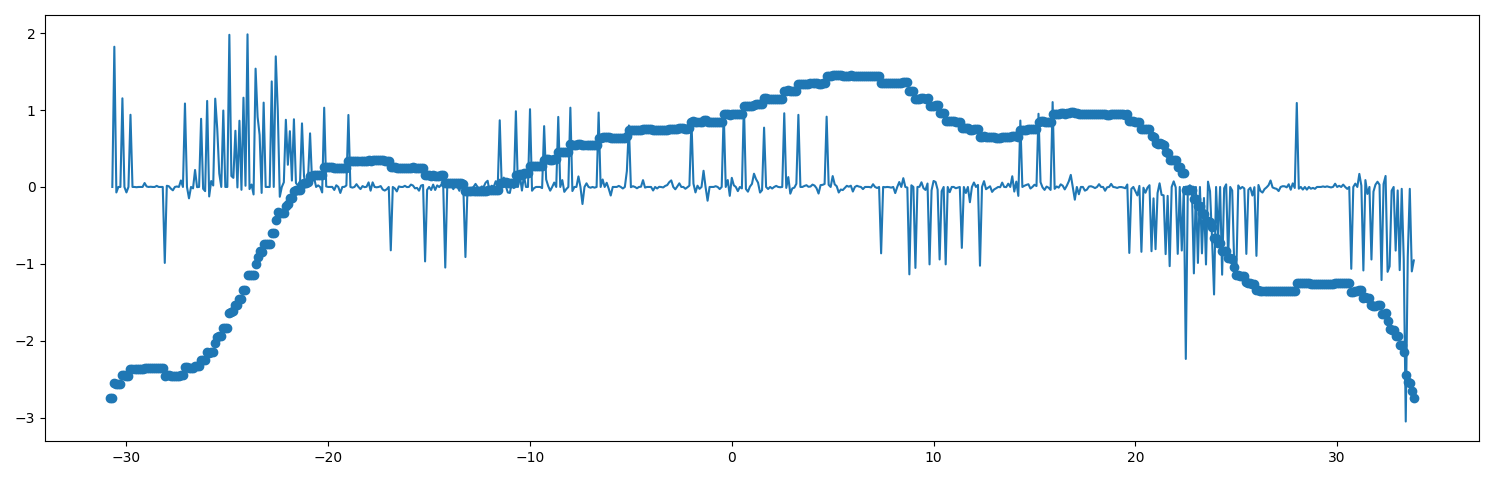
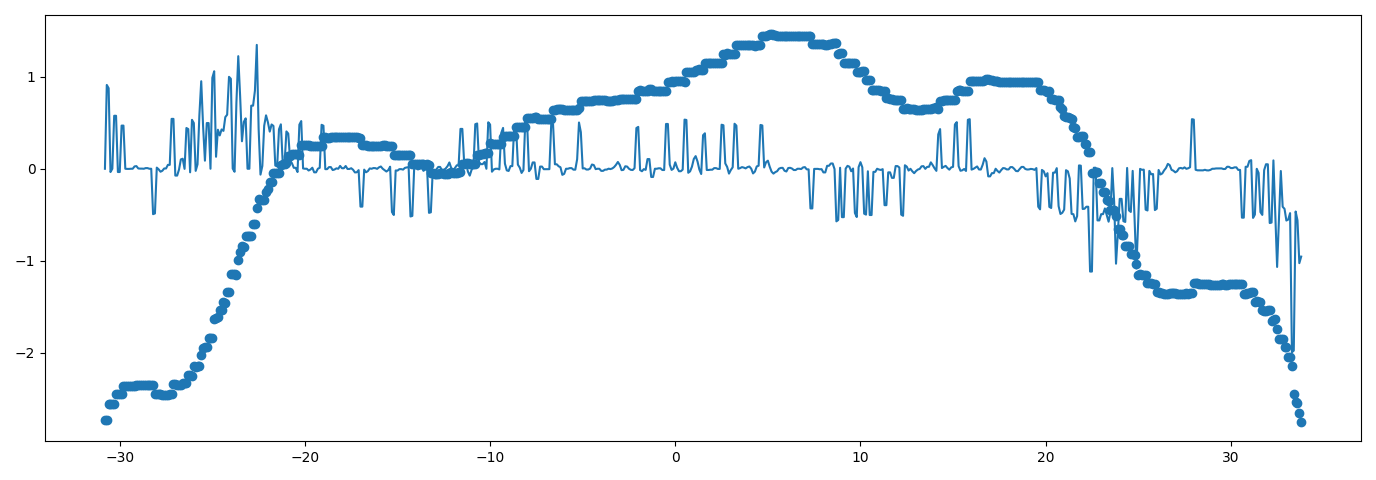
weld scan merge. Need to tune q sol for scanner

diff --git a/weld/weld_wall_scan.py b/weld/weld_wall_scan.py
@@ -3,9 +3,9 @@ from pathlib import Path
 import pickle
 import sys
 sys.path.append('../toolbox/')
-sys.path.append('scan_tools/')
-sys.path.append('scan_plan/')
-sys.path.append('scan_process/')
+sys.path.append('../scan/scan_tools/')
+sys.path.append('../scan/scan_plan/')
+sys.path.append('../scan/scan_process/')
 from robot_def import *
 from scan_utils import *
 from scan_continuous import *
@@ -49,7 +49,7 @@ def robot_weld_path_gen(all_layer_z,forward_flag,base_layer):
 			[-0.,      0.,     -1.    ]])
     x0 =  1684	# Origin x coordinate
     y0 = -1179 + 428	# Origin y coordinate
-    z0 = -245   # 10 mm distance to base
+    z0 = -260   # 10 mm distance to base
 
     weld_p=[]
     if base_layer: # base layer
@@ -70,7 +70,7 @@ def robot_weld_path_gen(all_layer_z,forward_flag,base_layer):
     for layer_z in all_layer_z:
         path_T=[]
         for p in weld_p:
-            path_T.append(Transform(R,p))
+            path_T.append(Transform(R,p+np.array([0,0,layer_z])))
 
         all_path_T.append(path_T)
     
@@ -83,14 +83,21 @@ robot_weld=robot_obj('MA2010_A0',def_path=config_dir+'MA2010_A0_robot_default_co
 	pulse2deg_file_path=config_dir+'MA2010_A0_pulse2deg_real.csv',\
     base_marker_config_file=config_dir+'MA2010_marker_config.yaml',tool_marker_config_file=config_dir+'weldgun_marker_config.yaml')
 robot_scan=robot_obj('MA1440_A0',def_path=config_dir+'MA1440_A0_robot_default_config.yml',tool_file_path=config_dir+'scanner_tcp2.csv',\
-	base_transformation_file=config_dir+'MA1440_pose_mocapcalib.csv',pulse2deg_file_path=config_dir+'MA1440_A0_pulse2deg_real.csv',\
+	base_transformation_file=config_dir+'MA1440_pose.csv',pulse2deg_file_path=config_dir+'MA1440_A0_pulse2deg_real.csv',\
     base_marker_config_file=config_dir+'MA1440_marker_config.yaml',tool_marker_config_file=config_dir+'scanner_marker_config.yaml')
 positioner=positioner_obj('D500B',def_path=config_dir+'D500B_robot_default_config.yml',tool_file_path=config_dir+'positioner_tcp.csv',\
-    base_transformation_file=config_dir+'D500B_pose_mocapcalib.csv',pulse2deg_file_path=config_dir+'D500B_pulse2deg_real.csv',\
+    base_transformation_file=config_dir+'D500B_pose.csv',pulse2deg_file_path=config_dir+'D500B_pulse2deg_real.csv',\
     base_marker_config_file=config_dir+'D500B_marker_config.yaml',tool_marker_config_file=config_dir+'positioner_tcp_marker_config.yaml')
 
 Table_home_T = positioner.fwd(np.radians([-15,180]))
 T_S1TCP_R1Base = np.linalg.inv(np.matmul(positioner.base_H,H_from_RT(Table_home_T.R,Table_home_T.p)))
+T_R1Base_S1TCP = np.linalg.inv(T_S1TCP_R1Base)
+
+#### change base H to calibrated ones ####
+robot_scan.base_H = H_from_RT(robot_scan.T_base_basemarker.R,robot_scan.T_base_basemarker.p)
+positioner.base_H = H_from_RT(positioner.T_base_basemarker.R,positioner.T_base_basemarker.p)
+T_to_base = Transform(np.eye(3),[0,0,-380])
+positioner.base_H = np.matmul(positioner.base_H,H_from_RT(T_to_base.R,T_to_base.p))
 
 forward_flag = True
 base_layer = True
@@ -114,12 +121,11 @@ formatted_time = current_time.strftime('%Y_%m_%d_%H_%M_%S.%f')[:-7]
 data_dir='../data/wall_weld_test/weld_scan_'+formatted_time+'/'
 
 for i in range(len(weld_z_height)):
-
     if i>=2:
         base_layer=False
     this_z_height=weld_z_height[i]
     this_job_number=job_number[i]
-    this_weld_v=weld_velocity[i]
+    this_weld_v=[weld_velocity[i]]
 
     # 1. The curve path in "positioner tcp frame"
     ######### enter your wanted z height #######
@@ -133,6 +139,107 @@ for i in range(len(weld_z_height)):
         this_n = np.matmul(T_S1TCP_R1Base[:3,:3],path_p.R[:,-1])
         curve_sliced_relative.append(np.append(this_p,this_n))
     curve_sliced_relative=curve_sliced_relative[1:-1] # the start and end is for collision prevention
+    R_S1TCP = np.matmul(T_S1TCP_R1Base[:3,:3],path_p.R)
+
+    #### Correction ####
+    # TODO: Add fitering if near threshold
+    h_largest=this_z_height
+    if i>1:
+        h_largest = np.max(profile_height[:,1])
+        h_target = h_largest+1.2
+
+        profile_slope = np.diff(profile_height[:,1])/np.diff(profile_height[:,0])
+        profile_slope = np.append(profile_slope[0],profile_slope)
+        # find slope peak
+        peak_threshold=0.6
+        weld_terrain=[]
+        last_peak_i=None
+        lastlast_peak_i=None
+        for sample_i in range(len(profile_slope)):
+            if np.fabs(profile_slope[sample_i])<peak_threshold:
+                weld_terrain.append(0)
+            else:
+                if profile_slope[sample_i]>=peak_threshold:
+                    weld_terrain.append(1)
+                elif profile_slope[sample_i]<=peak_threshold:
+                    weld_terrain.append(-1)
+                if lastlast_peak_i:
+                    if (weld_terrain[-1]==weld_terrain[lastlast_peak_i]) and (weld_terrain[-1]!=weld_terrain[last_peak_i]):
+                        weld_terrain[last_peak_i]=0
+                lastlast_peak_i=last_peak_i
+                last_peak_i=sample_i
+
+        weld_terrain=np.array(weld_terrain)
+        weld_peak=[]
+        last_peak=None
+        last_peak_i=None
+        flat_threshold=2.5
+        for sample_i in range(len(profile_slope)):
+            if weld_terrain[sample_i]!=0:
+                if last_peak is None:
+                    weld_peak.append(profile_height[sample_i])
+                else:
+                    # if the terrain change
+                    if (last_peak>0 and weld_terrain[sample_i]<0) or (last_peak<0 and weld_terrain[sample_i]>0):
+                        weld_peak.append(profile_height[last_peak_i])
+                        weld_peak.append(profile_height[sample_i])
+                    else:
+                        # the terrain not change but flat too long
+                        if profile_height[sample_i,0]-profile_height[last_peak_i,0]>flat_threshold:
+                            weld_peak.append(profile_height[last_peak_i])
+                            weld_peak.append(profile_height[sample_i])
+                last_peak=deepcopy(weld_terrain[sample_i])
+                last_peak_i=sample_i
+        weld_peak=np.array(weld_peak)
+
+        if forward_flag:
+            weld_bp = weld_peak[np.arange(0,len(weld_peak)-1,2)+1]
+        else:
+            weld_bp = weld_peak[np.arange(0,len(weld_peak),2)][::-1]
+
+        plt.scatter(profile_height[:,0],profile_height[:,1]-np.mean(profile_height[:,1]))
+        plt.plot(profile_height[:,0],profile_slope)
+        plt.scatter(weld_peak[:,0],weld_peak[:,1]-np.mean(profile_height[:,1]))
+        plt.scatter(weld_bp[:,0],weld_bp[:,1]-np.mean(profile_height[:,1]))
+        plt.show()
+
+        # find v
+        # 140 ipm: dh=0.006477*v^2-0.2362v+3.339
+        # 160 ipm: dh=0.006043*v^2-0.2234v+3.335
+        this_weld_v = []
+        dh = min(h_target-weld_bp[0][1],2.5) # find first v
+        a=0.006477
+        b=-0.2362
+        c=3.339-dh
+        v=-b+np.sqrt(b**2-4*a*c)/(2*a)
+        this_weld_v.append(v)
+        for bpi in range(len(weld_bp)):
+            dh = h_target-weld_bp[bpi][1]
+            a=0.006477
+            b=-0.2362
+            c=3.339-dh
+            v=-b+np.sqrt(b**2-4*a*c)/(2*a)
+            this_weld_v.append(v)
+        # new curve in positioner frame
+        curve_sliced_relative_correct = [curve_sliced_relative[0]]
+        path_T_S1 = [Transform(R_S1TCP,curve_sliced_relative_correct[-1][:3])]
+        for bpi in range(1,len(weld_bp)):
+            this_p = np.array([weld_bp[bpi][0],curve_sliced_relative[0][1],h_largest])
+            curve_sliced_relative_correct.append(np.append(this_p,curve_sliced_relative_correct[0][3:]))
+            path_T_S1.append(Transform(R_S1TCP,curve_sliced_relative_correct[-1][:3]))
+        curve_sliced_relative_correct = [curve_sliced_relative[-1]]
+        path_T_S1 = [Transform(R_S1TCP,curve_sliced_relative_correct[-1][:3])]
+        curve_sliced_relative=curve_sliced_relative_correct
+        # find curve in R1 frame
+        path_T=[]
+        for tcp_T in path_T_S1:
+            this_p = T_R1Base_S1TCP[:3,:3]@tcp_T.p+T_R1Base_S1TCP[:3,-1]
+            this_R = T_R1Base_S1TCP[:3,:3]@tcp_T.R
+            path_T.append(Transform(this_R,this_p))
+        # add path collision avoidance
+        path_T.insert(0,Transform(path_T[0].R,path_T[0].p+np.array([0,0,10])))
+        path_T.append(Transform(path_T[-1].R,path_T[-1].p+np.array([0,0,10])))
+    ####################
 
     # 2. Scanning parameters
     ### scan parameters
@@ -142,36 +249,29 @@ for i in range(len(weld_z_height)):
     Ry_angle = np.radians(0) # rotate in y a bit
     bounds_theta = np.radians(10) ## circular motion at start and end
     all_scan_angle = np.radians([0]) ## scan angle
-    q_init_table=np.radians([-30,0]) ## init table
+    q_init_table=np.radians([-15,90]) ## init table
     save_output_points = True
-
     ### scanning path module
     spg = ScanPathGen(robot_scan,positioner,scan_stand_off_d,Rz_angle,Ry_angle,bounds_theta)
+    mti_Rpath = np.array([[ 1.,0.,0.],   
+                    [ 0.,-1.,0.],
+                    [0.,0.,-1.]])
     # generate scan path
-    scan_p,scan_R,q_out1,q_out2=spg.gen_scan_path([curve_sliced_relative],[0],all_scan_angle,\
-                    solve_js_method=0,q_init_table=q_init_table,scan_path_dir=None)
+    if forward_flag:
+        scan_p,scan_R,q_out1,q_out2=spg.gen_scan_path([curve_sliced_relative],[0],all_scan_angle,\
+                        solve_js_method=0,q_init_table=q_init_table,R_path=mti_Rpath,scan_path_dir=None)
+    else:
+        scan_p,scan_R,q_out1,q_out2=spg.gen_scan_path([curve_sliced_relative[::-1]],[0],all_scan_angle,\
+                        solve_js_method=0,q_init_table=q_init_table,R_path=mti_Rpath,scan_path_dir=None)
     # generate motion program
     q_bp1,q_bp2,s1_all,s2_all=spg.gen_motion_program(q_out1,q_out2,scan_p,scan_speed,init_sync_move=0)
+    # print(np.degrees(q_out1[:10]))
+    # print(np.degrees(q_out1[-10:]))
+    # exit()
+    #######################################
 
     ######################################################
     ########### Do welding #############
-    #### Correction ####
-    # TODO: Add fitering if near threshold
-    if i>1:
-        h_largest = np.max(profile_height[:,1])
-        if h_largest-profile_height[0,1]>correction_thres:
-            correct_part=True
-        else:
-            correct_part=False
-        correction_T=[profile_height[0]]
-        for sample_i in range(len(profile_height)):
-            if correct_part:
-                if h_largest-profile_height[sample_i][1]<correction_thres:
-                    correction_T.append(profile_height[sample_i])
-            else:
-                if h_largest-profile_height[sample_i][1]>correction_thres:
-                    correction_T.append(profile_height[sample_i])
-    ####################
     path_q = []
     for tcp_T in path_T:
         path_q.append(robot_weld.inv(tcp_T.p,tcp_T.R,zero_config)[0])
@@ -181,6 +281,7 @@ for i in range(len(weld_z_height)):
     mp.MoveJ(np.degrees(path_q[0]), 3, 0)
     mp.MoveL(np.degrees(path_q[1]), 10, 0)
 
+    input("Press Enter and start welding.")
     # weld state logging
     sub = RRN.SubscribeService('rr+tcp://192.168.55.10:60823?service=welder')
     obj = sub.GetDefaultClientWait(3)  # connect, timeout=30s
@@ -188,17 +289,28 @@ for i in range(len(weld_z_height)):
     welder_state_sub.WireValueChanged += wire_cb
     mp=MotionProgram(ROBOT_CHOICE='RB1',pulse2deg=robot_weld.pulse2deg)
     mp.setArc(select, this_job_number)
-    mp.MoveL(np.degrees(q3), this_weld_v, 0)
+    for bpi in range(len(this_weld_v)):
+        if bpi!=len(this_weld_v)-1:
+            mp.MoveL(np.degrees(path_q[bpi+2]), this_weld_v[bpi])
+        else:
+            mp.MoveL(np.degrees(path_q[bpi+2]), this_weld_v[bpi],0)
     mp.setArc(False)
+    mp.MoveL(np.degrees(path_q[-1]), 10, 0)
     clean_weld_record()
     rob_stamps,rob_js_exe,_,_= robot_client.execute_motion_program(mp)
+
+    # move home
+    input("Press Enter to Move Home")
+    mp=MotionProgram(ROBOT_CHOICE='RB1',pulse2deg=robot_weld.pulse2deg)
+    mp.MoveL(np.zeros[6], 3, 0)
+    robot_client.execute_motion_program(mp)
+
     if save_weld_record:
         layer_data_dir=data_dir+'layer_'+str(i)+'/'
         Path(layer_data_dir).mkdir(exist_ok=True)
         np.savetxt(layer_data_dir + 'welding.csv',
                     np.array([weld_timestamp, weld_voltage, weld_current, weld_feedrate, weld_energy]).T, delimiter=',',
                     header='timestamp,voltage,current,feedrate,energy', comments='')
-
     ######################################################
 
     ######## scanning motion #########
@@ -220,7 +332,7 @@ for i in range(len(weld_z_height)):
     mti_client.setExposureTime("25")
 
     ## motion start
-    mp = MotionProgram(ROBOT_CHOICE='RB2',ROBOT_CHOICE2='ST1',pulse2deg=robot_scan.pulse2deg,pulse2deg_2=turn_table.pulse2deg)
+    mp = MotionProgram(ROBOT_CHOICE='RB2',ROBOT_CHOICE2='ST1',pulse2deg=robot_scan.pulse2deg,pulse2deg_2=positioner.pulse2deg)
     # calibration motion
     target2=['MOVJ',np.degrees(q_bp2[1][0]),10]
     mp.MoveL(np.degrees(q_bp1[1][0]), scan_speed, 0, target2=target2)
@@ -290,7 +402,12 @@ for i in range(len(weld_z_height)):
 
     pcd = scan_process.pcd_register_mti(mti_recording,q_out_exe,robot_stamps)
     pcd = scan_process.pcd_noise_remove(pcd,nb_neighbors=10,std_ratio=0.85,cluster_based_outlier_remove=False)
-    z_height_start=this_z_height
+    z_height_start=h_largest
     profile_height = scan_process.pcd2height(pcd,z_height_start)
 
+    if np.mean(profile_height[:,1])>final_height:
+        break
+
     forward_flag=not forward_flag
+
+print("Welding End!!")

diff --git a/scan/scan_process/get_h_pointsbased.py b/scan/scan_process/get_h_pointsbased.py
@@ -165,14 +165,76 @@ profile_height_arr=profile_height_arr[profile_height_arr_argsort]
 # plt.scatter(profile_height_arr[:,0],profile_height_arr[:,1])
 # plt.show()
 
-profile_height=profile_height_arr
-profile_slope = np.diff(profile_height[:,1])/np.diff(profile_height[:,0])
-
-plt.scatter(profile_height_arr[:,0],profile_height_arr[:,1]-np.mean(profile_height_arr[:,1]))
-plt.plot(profile_height[1:,0],profile_slope)
-plt.show()
-
-
-
 # pickle.dump(all_welds_width, open(data_dir+'all_welds_width.pickle','wb'))
 # pickle.dump(all_welds_height, open(data_dir+'all_welds_height.pickle','wb'))
+
+#### correction test
+profile_height=profile_height_arr
+profile_slope = np.diff(profile_height[:,1])/np.diff(profile_height[:,0])
+profile_slope = np.append(profile_slope[0],profile_slope)
+
+# plt.scatter(profile_height_arr[:,0],profile_height_arr[:,1]-np.mean(profile_height_arr[:,1]))
+# plt.plot(profile_height[:,0],profile_slope,'-o')
+# plt.show()
+
+h_largest = np.max(profile_height[:,1])
+h_target = h_largest+0.3
+
+# find slope peak
+peak_threshold=0.6
+weld_terrain=[]
+last_peak_i=None
+lastlast_peak_i=None
+for sample_i in range(len(profile_slope)):
+    if np.fabs(profile_slope[sample_i])<peak_threshold:
+        weld_terrain.append(0)
+    else:
+        if profile_slope[sample_i]>=peak_threshold:
+            weld_terrain.append(1)
+        elif profile_slope[sample_i]<=peak_threshold:
+            weld_terrain.append(-1)
+        if lastlast_peak_i:
+            if (weld_terrain[-1]==weld_terrain[lastlast_peak_i]) and (weld_terrain[-1]!=weld_terrain[last_peak_i]):
+                weld_terrain[last_peak_i]=0
+        lastlast_peak_i=last_peak_i
+        last_peak_i=sample_i
+
+weld_terrain=np.array(weld_terrain)
+weld_peak=[]
+last_peak=None
+last_peak_i=None
+flat_threshold=2.5
+for sample_i in range(len(profile_slope)):
+    if weld_terrain[sample_i]!=0:
+        if last_peak is None:
+            weld_peak.append(profile_height[sample_i])
+        else:
+            # if the terrain change
+            if (last_peak>0 and weld_terrain[sample_i]<0) or (last_peak<0 and weld_terrain[sample_i]>0):
+                weld_peak.append(profile_height[last_peak_i])
+                weld_peak.append(profile_height[sample_i])
+            else:
+                # the terrain not change but flat too long
+                if profile_height[sample_i,0]-profile_height[last_peak_i,0]>flat_threshold:
+                    weld_peak.append(profile_height[last_peak_i])
+                    weld_peak.append(profile_height[sample_i])
+        last_peak=deepcopy(weld_terrain[sample_i])
+        last_peak_i=sample_i
+weld_peak=np.array(weld_peak)
+# plt.scatter(profile_height_arr[:,0],profile_height_arr[:,1]-np.mean(profile_height_arr[:,1]))
+# plt.plot(profile_height[:,0],profile_slope)
+# plt.scatter(weld_peak[:,0],weld_peak[:,1]-np.mean(profile_height_arr[:,1]))
+# plt.show()
+
+weld_bp = weld_peak[np.arange(0,len(weld_peak)-1,2)+1]
+# weld_bp = weld_peak[np.arange(0,len(weld_peak),2)][::-1]
+plt.scatter(profile_height_arr[:,0],profile_height_arr[:,1]-np.mean(profile_height_arr[:,1]))
+plt.plot(profile_height[:,0],profile_slope)
+plt.scatter(weld_peak[:,0],weld_peak[:,1]-np.mean(profile_height_arr[:,1]))
+plt.scatter(weld_bp[:,0],weld_bp[:,1]-np.mean(profile_height_arr[:,1]))
+plt.show()
+
+# weld_bp=[]
+# for peak_i in range(len(weld_peak)):
+
+

diff --git a/scan/scan_plan/scan_full_wall_mti.py b/scan/scan_plan/scan_full_wall_mti.py
@@ -120,7 +120,7 @@ mti_Rpath = np.array([[ 1.,0.,0.],
 
 scan_p,scan_R,q_out1,q_out2=spg.gen_scan_path(all_curve_sliced_relative,all_layer,all_scan_angle,\
                   solve_js_method=0,q_init_table=q_init_table,R_path=mti_Rpath,scan_path_dir=None)
-
+exit()
 # print(np.degrees(q_out1[:10]))
 # print(np.degrees(q_out1[-10:]))
 # for i in range(6):
